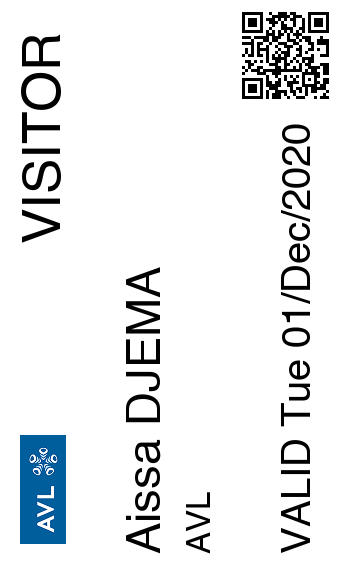
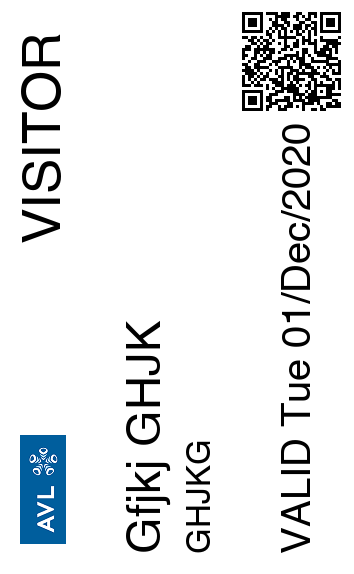
updated QR code to include phone number

diff --git a/functions.php b/functions.php
@@ -2,7 +2,7 @@
 
 include('../phpqrcode/qrlib.php');
 
-function createVisitorBadge($width,$height, $firstName, $lastName, $dept){
+function createVisitorBadge($width,$height, $firstName, $lastName, $dept,$phone_number){
 
     // Create the size of image or blank image 
     // 354 x 574
@@ -18,23 +18,23 @@ $text_color = imagecolorallocate($image, 0, 0, 0);
 imagefilledrectangle($image, 0, 0, $width, $height, $background_color);
 
 // Function to create image which contains string. 
-$text_content = "Visitor" . "\n" . ucfirst(strtolower($firstName)) . "\n" . strtoupper($lastName) ." " . strtolower($dept) . "\n" . 'VALID ' . date("D d/M/Y") ;
+$text_content = "Visitor" . "\n" . ucfirst(strtolower($firstName)) . " " . strtoupper($lastName) ."\n"  . strtolower($dept) ."\n". $phone_number . "\n" . 'VALID ' . date("D d/M/Y") ;
 imagettftext($image, 35,0, 20, 160,  $text_color, $fontfile, ucfirst(strtolower($firstName)) ." " . strtoupper($lastName)); 
 imagettftext($image, 25,0, 20, 210, $text_color, $fontfile, strtoupper($dept) ); 
 imagettftext($image, 40,0, 330, 60, $text_color, $fontfile, 'VISITOR' ); 
 imagettftext($image, 30,0, 20, 310, $text_color, $fontfile, 'VALID ' . date("D d/M/Y")); 
-QRcode::png($text_content, 'QR_Code.png', QR_ECLEVEL_L, 3);
+QRcode::png($text_content, __DIR__ . '/assets/images/QR_Code.png', QR_ECLEVEL_L, 3);
 
 $image = imagerotate($image, 90,0);
 
 header("Content-Type: image/png"); 
   
-imagepng($image,'label.png'); 
+imagepng($image,__DIR__ . '/assets/images/label.png'); 
 
-$dest = imagecreatefrompng('label.png');
-$src = imagecreatefrompng('QR_Code.png');
-$logoPath =__DIR__ . 'assets/images/logo.png';
-$srcLogo = imagecreatefrompng('logo.png');
+$dest = imagecreatefrompng(__DIR__ . '/assets/images/label.png');
+$src = imagecreatefrompng(__DIR__ . '/assets/images/QR_Code.png');
+$logoPath =__DIR__ . '/assets/images/logo_90d.png';
+$srcLogo = imagecreatefrompng($logoPath);
 
 // Copy and merge
 imagecopymerge($dest, $src, 230,0, 0, 0, 111, 111, 100);
@@ -43,4 +43,5 @@ imagepng($dest,'label.png');
 
 imagedestroy($image); 
 imagedestroy($dest); 
+unlink(__DIR__ . '/assets/images/QR_Code.png');
 }

diff --git a/footer.php b/footer.php
@@ -1,10 +1,20 @@
 <?php error_reporting(0); ?>
 <!-- Footer -->
+<style>
+.footer {
+  position: relative;
+  left: 0;
+  bottom: 0;
+  width: 100%;
+  text-align: center;
+}
+</style>
+<footer class="footer">
 <div class="container pt-3">
 <p class="float-left" id="time"></p>
 <?php
 if (isset($_SESSION['UserData']['Username'])){
-  $admin_msg = '<p class = "float-right">&nbsp;Congratulation! You are logged into password protected page. <a href="logout.php">Click here to Logout.</a></p>';
+  $admin_msg = '<p class = "float-right">&nbsp;Congratulation! You are logged as admin. <a href="logout.php">Click here to Logout.</a></p>';
   echo $admin_msg;
   } else {
     $admin_msg = '<p class="float-right"><a href="login.php" class="btn btn-dark">Admin</a></p>';
@@ -12,6 +22,7 @@ if (isset($_SESSION['UserData']['Username'])){
   }
   ?>
   </div>
+</footer>
 <script>
     var myTime = document.getElementById('time');
     setInterval(function(){myTime.innerHTML = new Date();},1000);

diff --git a/process.php b/process.php
@@ -57,8 +57,10 @@ $employee_msg = "You should check out now if your temperature is not less than 3
 $temp_ok='OK';
 $employee_msg = "You can proceed into the building.<br> Remember to checkout when you leave.<br>";
 if ($isVisitor){
-  createVisitorBadge(574,354, $first_name, $last_name, $department);
+  createVisitorBadge(574,354, $first_name, $last_name, $department,$phone);
   shell_exec("brother_ql -b pyusb -m QL-700 -p usb://0x04F9:0x2042/000J2Z462429 print -l 62 label.png");
+  // delete label after print
+  unlink('label.png');
   }
 }
 
